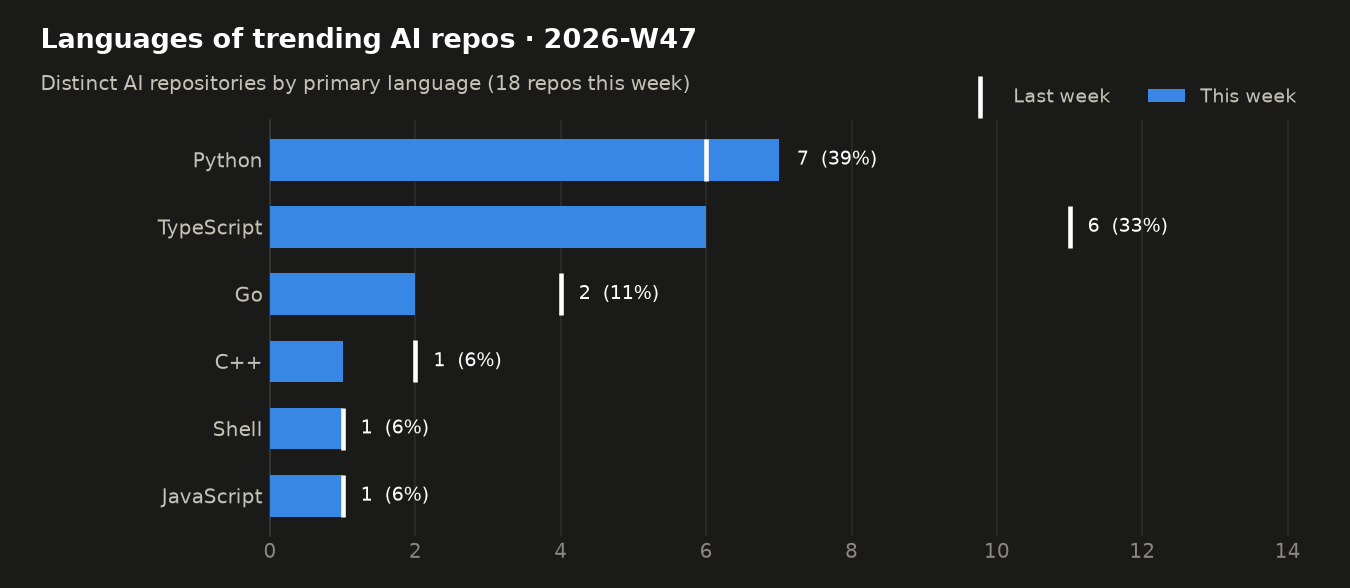
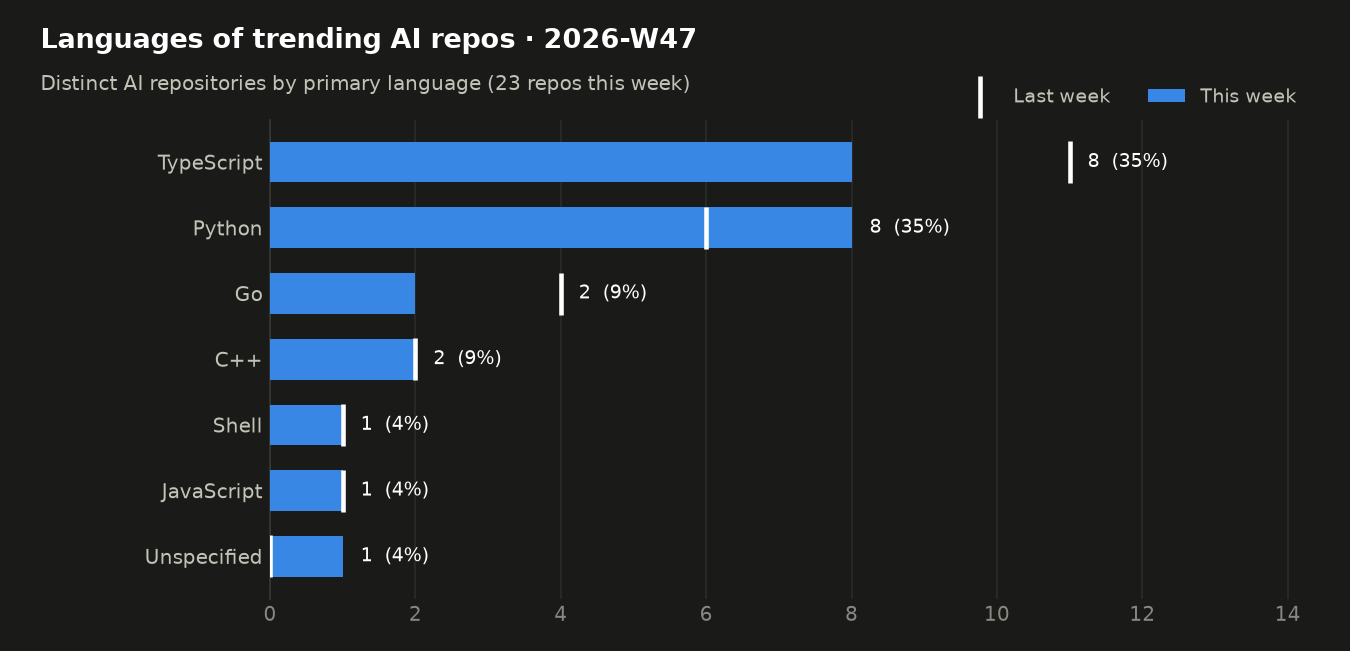
trending: snapshot 2026-11-19

diff --git a/README.md b/README.md
@@ -7,33 +7,32 @@ Every morning a GitHub Actions workflow reads the GitHub trending page, looks up
 ## Live view
 
 <!-- TRACKER_START -->
-### 🔥 AI repos trending today · 2026-11-18
+### 🔥 AI repos trending today · 2026-11-19
 
-12 of 15 trending repositories are AI-related.
+11 of 19 trending repositories are AI-related.
 
 | # | Repo | Language | ⭐ today | ⭐ total | Topics |
 |--:|---|---|--:|--:|---|
-| 1 | [elementalsouls/Claude-BugHunter](https://github.com/elementalsouls/Claude-BugHunter)<br><sub>Sponsor Star elementalsouls / Claude-BugHunter A Claude Code skill bundle for bug hunting …</sub> | Python | 1,005 | 10,199 | `ai-security` `anthropic` `application-security` `bug-bounty` |
-| 2 | [mvanhorn/last30days-skill](https://github.com/mvanhorn/last30days-skill)<br><sub>Star mvanhorn / last30days-skill AI agent skill that researches any topic across Reddit, X…</sub> | Python | 696 | 69,495 | `ai-prompts` `ai-skill` `bluesky` `claude` |
-| 3 | [alibaba/open-code-review](https://github.com/alibaba/open-code-review)<br><sub>Star alibaba / open-code-review Secure, fast, efficient, battle-tested at Alibaba's scale.…</sub> | Go | 763 | 54,051 | `agent` `agent-skills` `code-review` `code-review-assistant` |
-| 4 | [Tencent/LoopForge](https://github.com/Tencent/LoopForge)<br><sub>Star Tencent / LoopForge Self-hosted workflows for coding-agent delivery. Orchestrate Code…</sub> | Go | 591 | 3,675 | `agent-orchestration` `agentic-workflow` `ai-agents` `ai-coding` |
-| 5 | [dream-num/univer](https://github.com/dream-num/univer)<br><sub>Star dream-num / univer Build your own AI office with Univer Office SDK. Bring editing, ca…</sub> | TypeScript | 1,774 | 29,742 | `board` `collaboration` `doc` `docx` |
-| 7 | [google-labs-code/stitch-skills](https://github.com/google-labs-code/stitch-skills)<br><sub>Star google-labs-code / stitch-skills A library of Agent Skills designed to work with the …</sub> | TypeScript | 350 | 10,251 | – |
-| 9 | [obra/superpowers](https://github.com/obra/superpowers)<br><sub>Sponsor Star obra / superpowers An agentic skills framework & software development methodo…</sub> | Shell | 1,917 | 319,644 | `ai` `brainstorming` `coding` `obra` |
-| 10 | [ag-ui-protocol/ag-ui](https://github.com/ag-ui-protocol/ag-ui)<br><sub>Star ag-ui-protocol / ag-ui AG-UI: the Agent-User Interaction Protocol. Bring Agents into …</sub> | TypeScript | 1,445 | 20,234 | `ag-ui-protocol` `agent-frontend` `agent-ui` `agentic-workflow` |
-| 11 | [backnotprop/plannotator](https://github.com/backnotprop/plannotator)<br><sub>Star backnotprop / plannotator The workspace to stay in the loop and on top of agents - sh…</sub> | TypeScript | 691 | 13,232 | `agents` `claude-code` `code-review` `codex` |
-| 13 | [affaan-m/ECC](https://github.com/affaan-m/ECC)<br><sub>Sponsor Star affaan-m / ECC The agent harness performance optimization system. Skills, ins…</sub> | JavaScript | 883 | 305,958 | `ai-agents` `anthropic` `claude` `claude-code` |
-| 14 | [jingyaogong/minimind](https://github.com/jingyaogong/minimind)<br><sub>Star jingyaogong / minimind 🧠 Train a 64M-parameter LLM from scratch in just 2h!</sub> | Python | 192 | 66,372 | `artificial-intelligence` `large-language-model` |
-| 15 | [google-research/paper-orchestra](https://github.com/google-research/paper-orchestra)<br><sub>Star google-research / paper-orchestra PaperOrchestra is a multi-agent framework for autom…</sub> | Python | 1,072 | 3,546 | `ai-research-assistant` `multi-agent-systems` |
+| 2 | [HKUDS/CLI-Anything](https://github.com/HKUDS/CLI-Anything)<br><sub>Star HKUDS / CLI-Anything "CLI-Anything: Making ALL Software Agent-Native" -- CLI-Hub: htt…</sub> | Python | 389 | 60,147 | – |
+| 3 | [mvanhorn/last30days-skill](https://github.com/mvanhorn/last30days-skill)<br><sub>Star mvanhorn / last30days-skill AI agent skill that researches any topic across Reddit, X…</sub> | Python | 1,059 | 70,431 | `ai-prompts` `ai-skill` `bluesky` `claude` |
+| 5 | [NVIDIA/SkillEvaluator](https://github.com/NVIDIA/SkillEvaluator)<br><sub>Star NVIDIA / SkillEvaluator Multi-tier framework for evaluating AI agent skills and plugi…</sub> | Python | 312 | 3,972 | `agent-evaluation` `agent-plugins` `agent-security` `agent-skills` |
+| 8 | [google-research/paper-orchestra](https://github.com/google-research/paper-orchestra)<br><sub>Star google-research / paper-orchestra PaperOrchestra is a multi-agent framework for autom…</sub> | Python | 1,524 | 4,726 | `ai-research-assistant` `multi-agent-systems` |
+| 9 | [google-labs-code/stitch-skills](https://github.com/google-labs-code/stitch-skills)<br><sub>Star google-labs-code / stitch-skills A library of Agent Skills designed to work with the …</sub> | TypeScript | 365 | 10,545 | – |
+| 12 | [appwrite/appwrite](https://github.com/appwrite/appwrite)<br><sub>Star appwrite / appwrite The open-source cloud for agents & devs. Including Auth, Database…</sub> | TypeScript | 232 | 58,367 | `android` `appwrite` `backend` `backend-as-a-service` |
+| 13 | [openvinotoolkit/openvino](https://github.com/openvinotoolkit/openvino)<br><sub>Star openvinotoolkit / openvino OpenVINO™ is an open source toolkit for optimizing and dep…</sub> | C++ | 24 | 11,433 | `ai` `computer-vision` `deep-learning` `deploy-ai` |
+| 14 | [obra/superpowers](https://github.com/obra/superpowers)<br><sub>Sponsor Star obra / superpowers An agentic skills framework & software development methodo…</sub> | Shell | 822 | 321,595 | `ai` `brainstorming` `coding` `obra` |
+| 15 | [affaan-m/ECC](https://github.com/affaan-m/ECC)<br><sub>Sponsor Star affaan-m / ECC The agent harness performance optimization system. Skills, ins…</sub> | JavaScript | 1,108 | 306,867 | `ai-agents` `anthropic` `claude` `claude-code` |
+| 17 | [n8n-io/n8n](https://github.com/n8n-io/n8n)<br><sub>Star n8n-io / n8n Fair-code workflow automation platform with native AI capabilities. Comb…</sub> | TypeScript | 325 | 211,328 | `ai` `apis` `automation` `cli` |
+| 19 | [punkpeye/awesome-mcp-servers](https://github.com/punkpeye/awesome-mcp-servers)<br><sub>Star punkpeye / awesome-mcp-servers A collection of MCP servers.</sub> | – | 53 | 98,197 | `ai` `mcp` |
 
 ### 📊 This week so far · 2026-W47
 
 #### Summary
 
-- **18** distinct AI repos trended over 3 day(s) (last week: 28)
-- AI share of all trending slots: **86%** (+16 pts vs last week)
-- Dominant language: **Python** (39% of AI repos)
-- Rising topics: `anthropic` (+1), `claude-code` (+1), `mcp-server` (+1), `sdlc` (+1), `skills` (+1)
+- **23** distinct AI repos trended over 4 day(s) (last week: 28)
+- AI share of all trending slots: **77%** (+8 pts vs last week)
+- No single dominant language: Python, TypeScript tied at 8 repo(s) each
+- Rising topics: `mcp-server` (+2), `anthropic` (+1), `claude-code` (+1), `harness` (+1), `sdlc` (+1)
 
 #### Languages
 
@@ -41,12 +40,13 @@ Every morning a GitHub Actions workflow reads the GitHub trending page, looks up
 
 | Language | Repos | Share | Last week |
 |---|--:|--:|--:|
-| Python | 7 | 39% | 6 |
-| TypeScript | 6 | 33% | 11 |
-| Go | 2 | 11% | 4 |
-| C++ | 1 | 6% | 2 |
-| Shell | 1 | 6% | 1 |
-| JavaScript | 1 | 6% | 1 |
+| TypeScript | 8 | 35% | 11 |
+| Python | 8 | 35% | 6 |
+| Go | 2 | 9% | 4 |
+| C++ | 2 | 9% | 2 |
+| Shell | 1 | 4% | 1 |
+| JavaScript | 1 | 4% | 1 |
+| Unspecified | 1 | 4% | 0 |
 
 #### Topics
 
@@ -55,36 +55,36 @@ Every morning a GitHub Actions workflow reads the GitHub trending page, looks up
 | Topic | Repos this week |
 |---|--:|
 | `claude-code` | 7 |
+| `mcp` | 6 |
 | `ai-agents` | 4 |
 | `codex` | 4 |
-| `mcp` | 4 |
-| `skills` | 3 |
 | `code-review` | 3 |
+| `skills` | 3 |
+| `mcp-server` | 3 |
 | `agent-skills` | 3 |
+| `self-hosted` | 3 |
 | `claude` | 3 |
 | `agentic-workflow` | 2 |
-| `mcp-server` | 2 |
-| `sdlc` | 2 |
-| `cursor` | 2 |
+| `harness` | 2 |
 
 #### Most persistent AI repos
 
 | Repo | Language | Days trending | Stars gained | Total stars |
 |---|---|--:|--:|--:|
+| [google-labs-code/stitch-skills](https://github.com/google-labs-code/stitch-skills) | TypeScript | 4 | 1,491 | 10,545 |
 | [dream-num/univer](https://github.com/dream-num/univer) | TypeScript | 3 | 4,590 | 29,742 |
+| [google-research/paper-orchestra](https://github.com/google-research/paper-orchestra) | Python | 3 | 2,909 | 4,726 |
 | [ag-ui-protocol/ag-ui](https://github.com/ag-ui-protocol/ag-ui) | TypeScript | 3 | 2,591 | 20,234 |
 | [alibaba/open-code-review](https://github.com/alibaba/open-code-review) | Go | 3 | 2,405 | 54,051 |
 | [backnotprop/plannotator](https://github.com/backnotprop/plannotator) | TypeScript | 3 | 2,253 | 13,232 |
 | [elementalsouls/Claude-BugHunter](https://github.com/elementalsouls/Claude-BugHunter) | Python | 3 | 2,197 | 10,199 |
-| [google-labs-code/stitch-skills](https://github.com/google-labs-code/stitch-skills) | TypeScript | 3 | 1,126 | 10,251 |
-| [ChromeDevTools/chrome-devtools-mcp](https://github.com/ChromeDevTools/chrome-devtools-mcp) | TypeScript | 2 | 1,558 | 57,912 |
-| [tradermonty/claude-trading-skills](https://github.com/tradermonty/claude-trading-skills) | Python | 2 | 1,543 | 6,688 |
-| [google-research/paper-orchestra](https://github.com/google-research/paper-orchestra) | Python | 2 | 1,385 | 3,546 |
-| [Tencent/LoopForge](https://github.com/Tencent/LoopForge) | Go | 2 | 1,014 | 3,675 |
+| [mvanhorn/last30days-skill](https://github.com/mvanhorn/last30days-skill) | Python | 3 | 1,890 | 70,431 |
+| [NVIDIA/SkillEvaluator](https://github.com/NVIDIA/SkillEvaluator) | Python | 3 | 1,307 | 3,972 |
+| [obra/superpowers](https://github.com/obra/superpowers) | Shell | 2 | 2,739 | 321,595 |
 
 ➡ Last full weekly analysis: [2026-W46](reports/weekly/2026-W46.md) · [all reports](reports/weekly)
 
-_Tracking since 2026-10-01 · 49 day(s) of data · [raw data](data/trending.csv)_
+_Tracking since 2026-10-01 · 50 day(s) of data · [raw data](data/trending.csv)_
 <!-- TRACKER_END -->
 
 ## How it works
